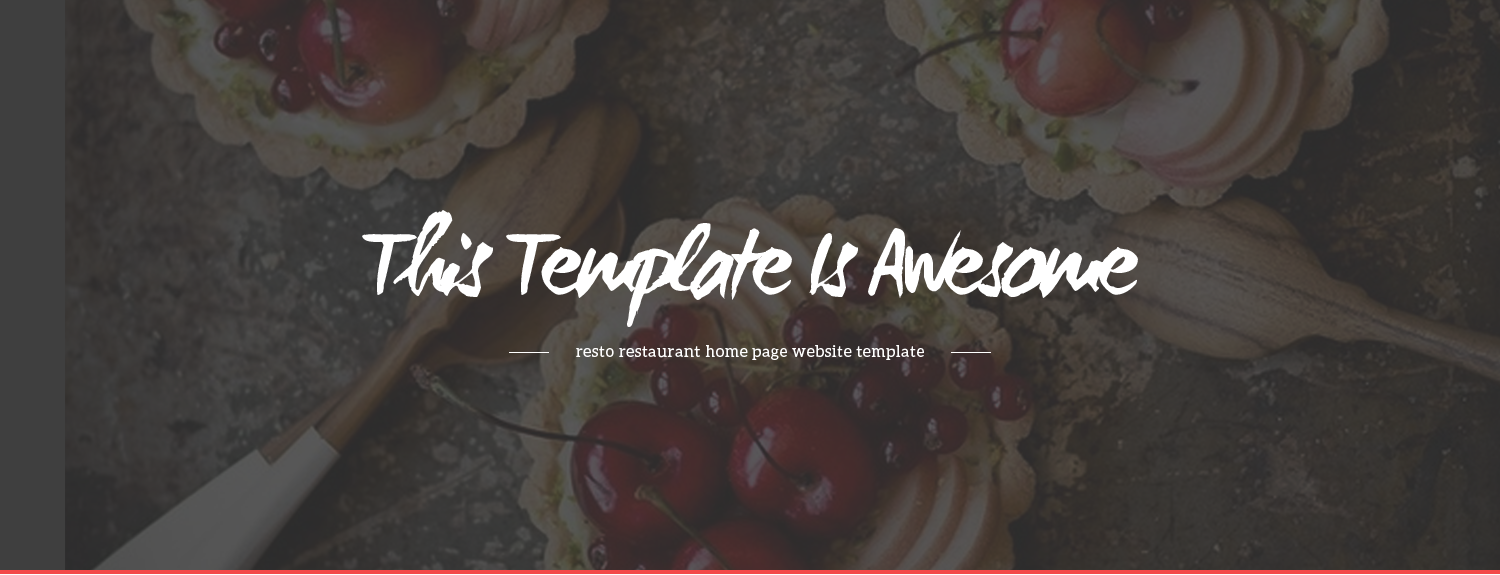
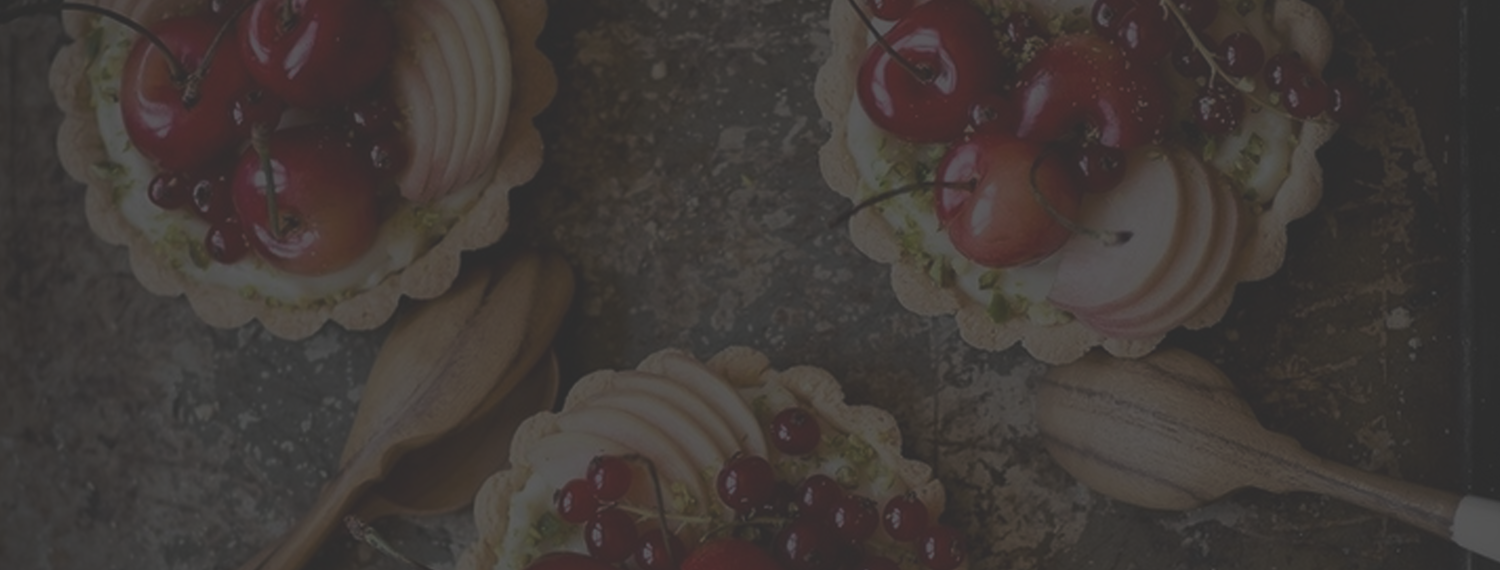
0716

diff --git a/html/psd.html b/html/psd.html
@@ -25,7 +25,15 @@
         </div>
     </div>
     <div class="index-banner">
-        <div class="index-banner-bg"><img src="../images/banner.png" alt="banner"></a></div>
+        <div class="index-banner-bg"><img src="../images/banner.png" alt="banner"></div>
+        <div class="index-banner-text">
+            <div classs="text-logo"></div>
+                <p class="text-info">
+                    <i class="line line-l"></i>
+                    resto restaurant home page website template
+                    <i class="line line-r"></i>
+                </p>
+        </div>
     </div>
     <div class="public-container index-list"></div>
     <div class="public-container index-panel">

diff --git a/css/index.css b/css/index.css
@@ -3,8 +3,29 @@
     background: #fff;
 }
 
-.index-banner-bg{
+.index-banner-bg {
+    width: 1500px;
     height: 570px;
     overflow: hidden;
 
+}
+
+.index-banner-bg img {
+    margin: 0 auto;
+}
+
+.index-banner-text {
+    top: 210px;
+    left: 50%;
+    position: absolute;
+    margin-left: -362px;
+}
+.index-banner-text .text-logo {
+width: 776px;
+height: 117px;
+background: url("../images/banner-text-logo.png");
+}
+
+.index-banner-text .text-info{
+    margin-top: 18px;
 }
